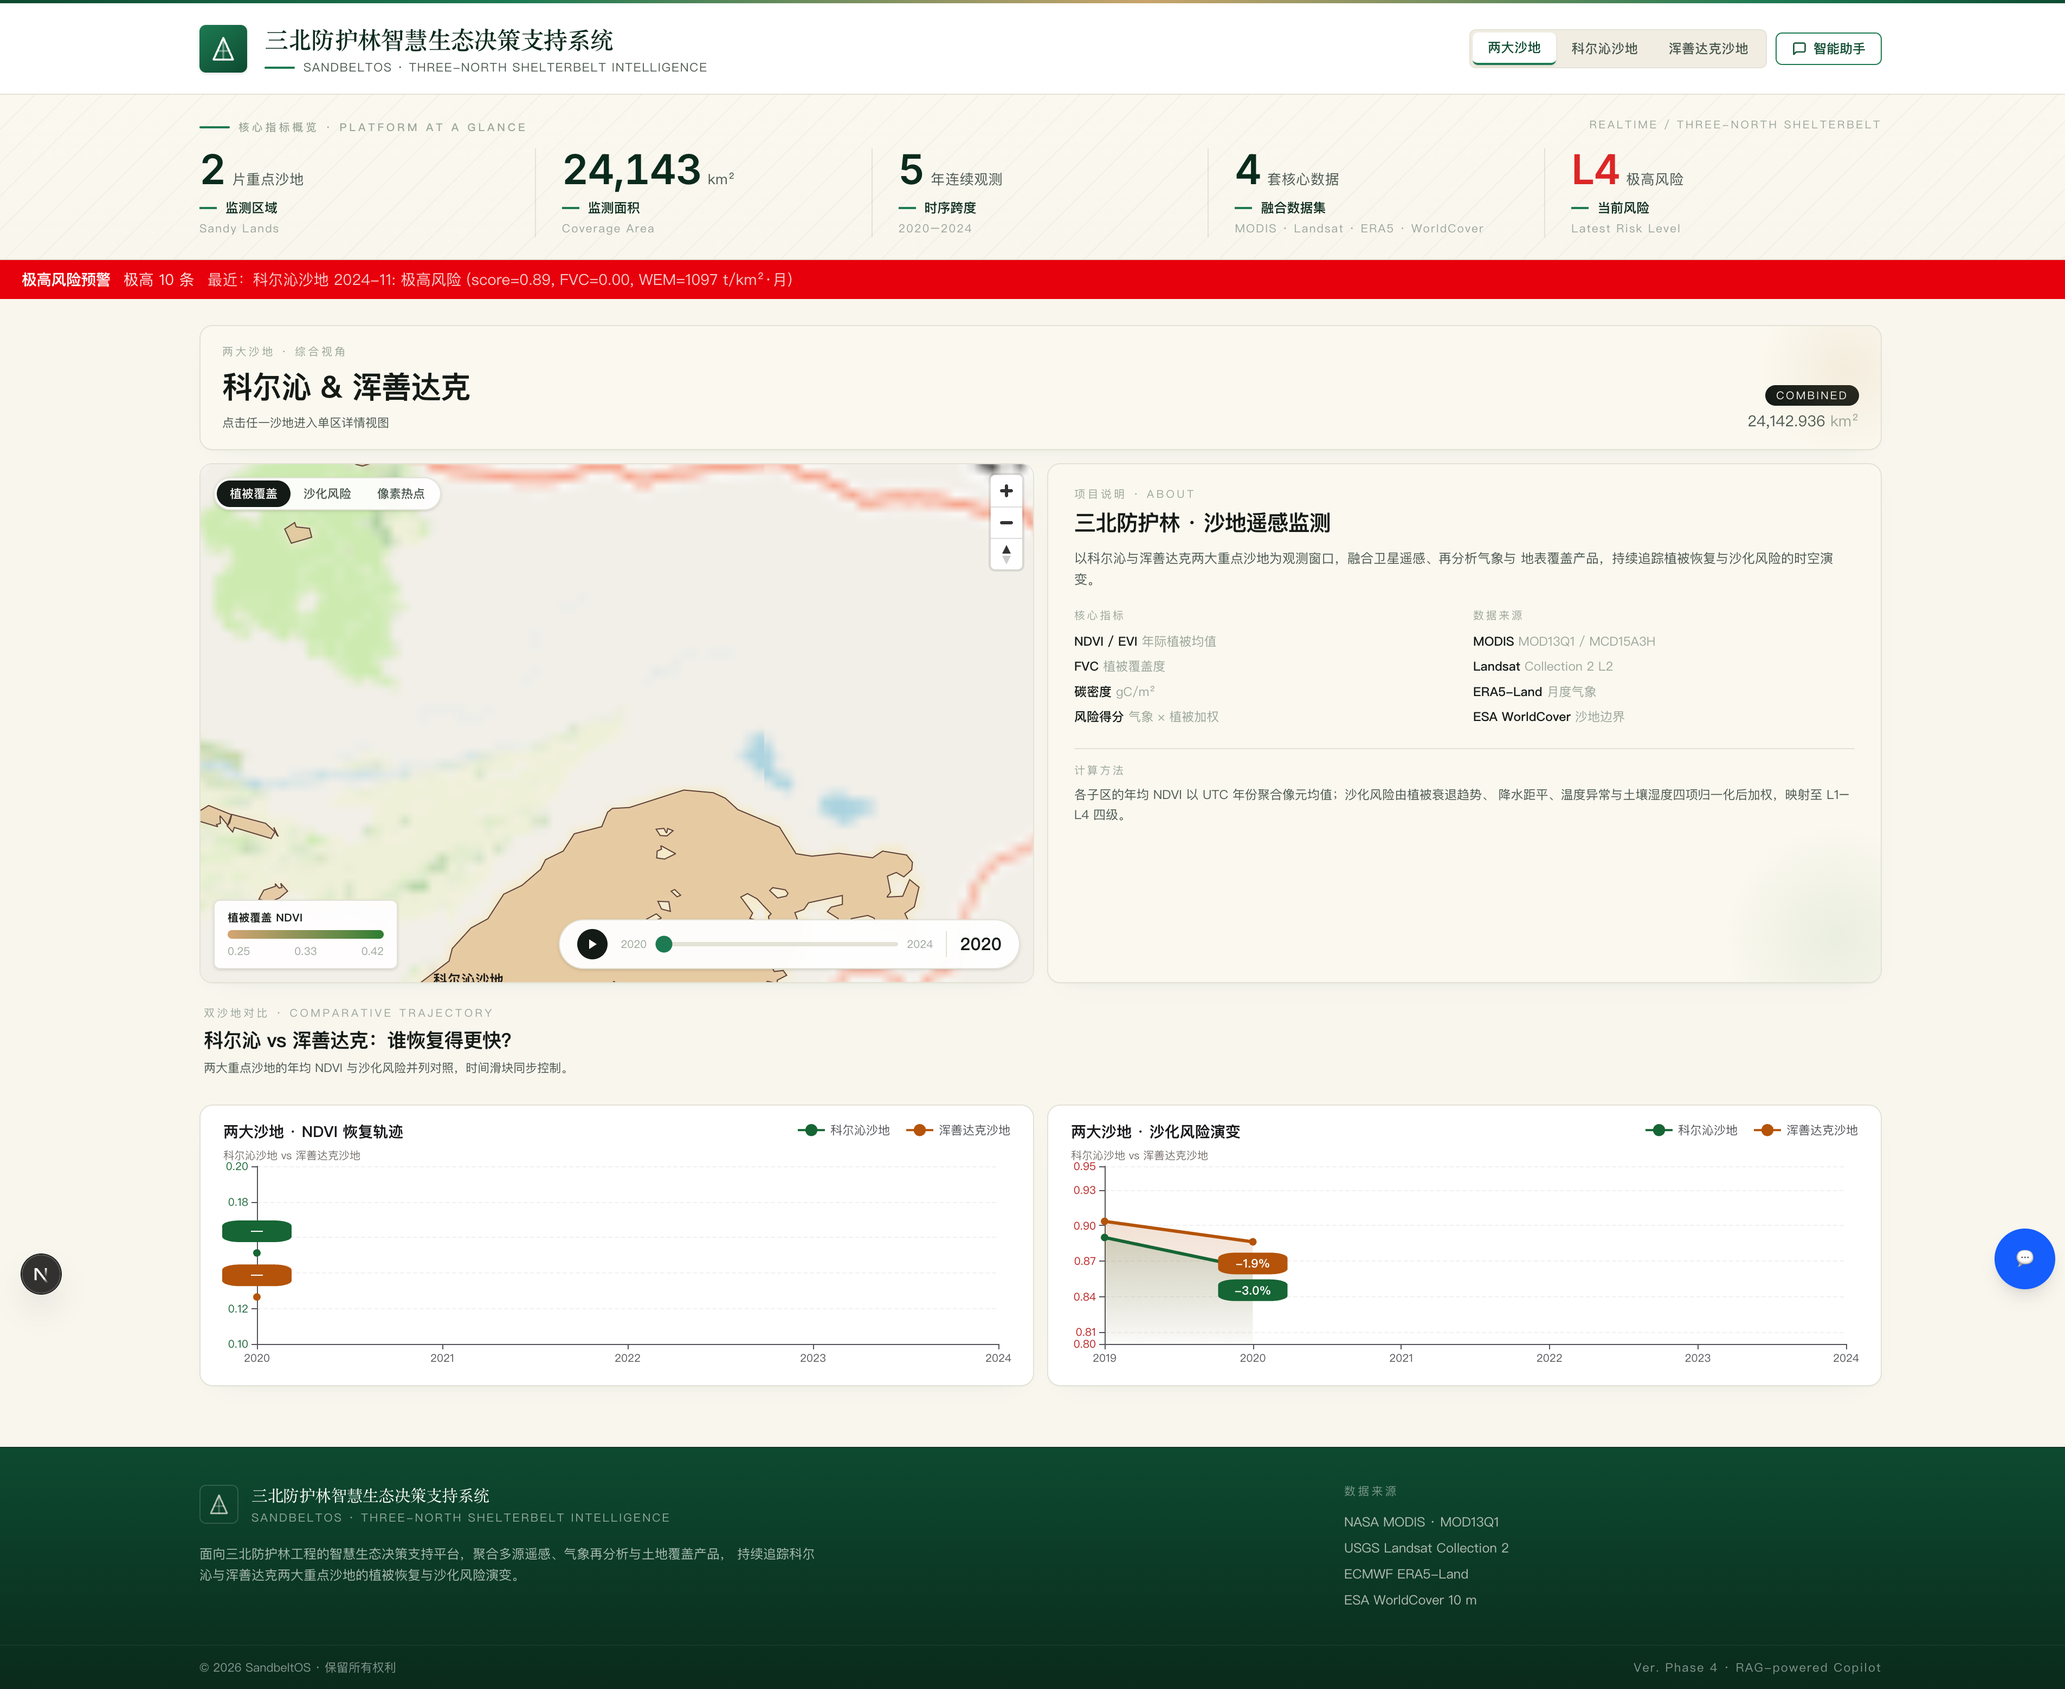
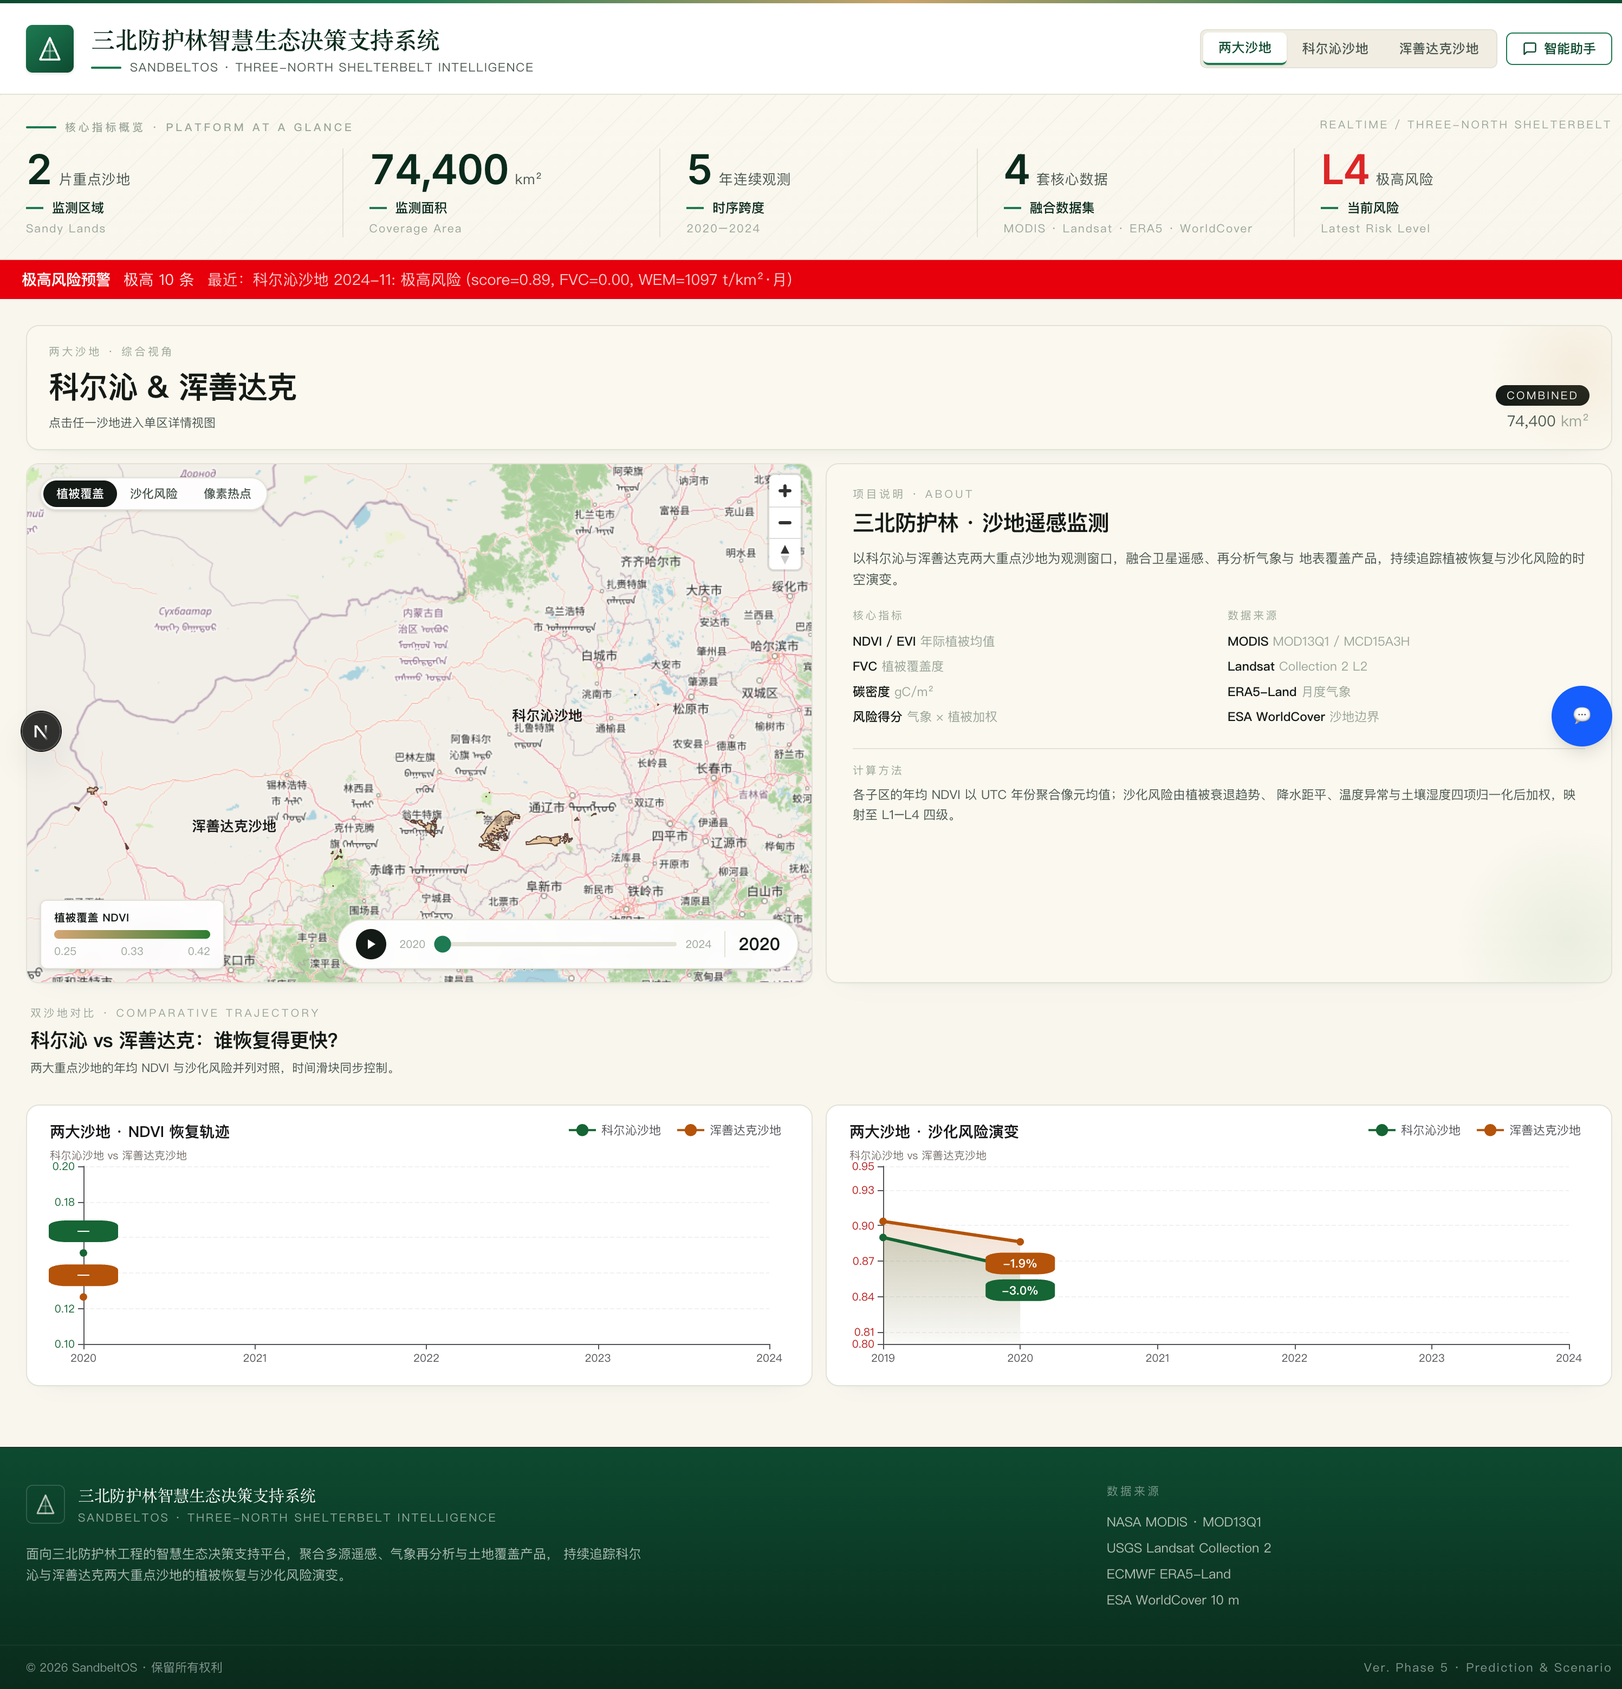
fix(data): authoritative sandy-land area + dashboard polish
Top-line KPI "监测面积" showed 24,143 km² but real-world authoritative
figures are ~74,400 (科尔沁 5.06万 + 浑善达克 2.38万). Two root causes
stacked:

1. seed_osm_sandy bbox was too small — Korqin (118-123E, 42-44N) only
   covers a third of the real 116-126E, 41.7-47.7N extent.
2. OSM `natural=sand` is sparsely tagged in China; even after expanding
   the bbox the measured area only crawled from 2,742 → 2,734 km² for
   Korqin and 21,400 (a hardcoded fallback) → 263 km² for Hunshandake.

Fix: expand bbox to the documented range so OSM searches the right
area, and when OSM coverage is < 50% of the authoritative value (today
both regions are 1-5%) keep the OSM polygons for geometry but write
the authoritative km² (50,600 / 23,800) to area_km2 so headline KPIs
don't lie. Authoritative source: 百度百科 / Wikipedia / 中国水土保持
学会《中国八大沙漠四大沙地》2024. A NESDC-backed C-fix is queued for
roadmap 2⃣ when real data lands.

Bundled drift cleanup the 1.3 walkthrough surfaced:
- SiteFooter: "Phase 4 · RAG-powered Copilot" → "Phase 5 · Prediction
  & Scenario" (Phase 5 has shipped)
- app/page.tsx: RAG 问答 and 预测分析 cards get the green ✓ treatment
  the Phase 2 cards have — all four phases now consistently shipped
- chat/MetricsPanel: backend returns null FVC for sparse periods, was
  rendering "null%". Add fmt() and fmtPercent() helpers that show "—"
  for null and ×100 fractions to percent (soil_moisture was showing
  "0.1171%" instead of "11.7%" for the same reason).
[…]

diff --git a/frontend/src/components/chat/MetricsPanel.tsx b/frontend/src/components/chat/MetricsPanel.tsx
@@ -34,8 +34,8 @@ export function MetricsPanel({ metrics }: Props) {
       </div>
 
       <dl className="grid grid-cols-2 gap-x-3 gap-y-2 text-[12.5px]">
-        <Metric label="NDVI" value={metrics.ndvi?.toFixed(2)} />
-        <Metric label="FVC" value={`${metrics.fvc}%`} />
+        <Metric label="NDVI" value={fmt(metrics.ndvi, (v) => v.toFixed(2))} />
+        <Metric label="FVC" value={fmtPercent(metrics.fvc)} />
         <Metric
           label="风险等级"
           value={
@@ -44,10 +44,13 @@ export function MetricsPanel({ metrics }: Props) {
             </span>
           }
         />
-        <Metric label="风速" value={`${metrics.wind_speed?.toFixed(1)} m/s`} />
+        <Metric
+          label="风速"
+          value={fmt(metrics.wind_speed, (v) => `${v.toFixed(1)} m/s`)}
+        />
         <Metric
           label="土壤湿度"
-          value={`${metrics.soil_moisture}%`}
+          value={fmtPercent(metrics.soil_moisture)}
           span={2}
         />
       </dl>
@@ -67,6 +70,17 @@ export function MetricsPanel({ metrics }: Props) {
       )}
     </div>
   );
+}
+
+// Backend may send null when a metric is missing (sparse sensor data,
+// LST gap, etc.) — render "—" instead of "null%".
+function fmt<T>(v: T | null | undefined, render: (v: T) => string): string {
+  return v == null ? "—" : render(v);
+}
+
+// 0–1 fraction → percent string. ESA WorldCover / SMAP both report fractions.
+function fmtPercent(v: number | null | undefined): string {
+  return v == null ? "—" : `${(v * 100).toFixed(1)}%`;
 }
 
 function Metric({

diff --git a/frontend/src/app/page.tsx b/frontend/src/app/page.tsx
@@ -34,21 +34,13 @@ export default function Home() {
             <div className="font-medium text-green-800">生态仪表盘</div>
             <div className="mt-1 text-green-600">Phase 2 ✓</div>
           </div>
-          <div className="rounded-lg border border-zinc-200 bg-white p-4 dark:border-zinc-800 dark:bg-zinc-900">
-            <div className="font-medium text-zinc-900 dark:text-zinc-100">
-              RAG 问答
-            </div>
-            <div className="mt-1 text-zinc-500 dark:text-zinc-400">
-              Phase 4
-            </div>
+          <div className="rounded-lg border border-green-200 bg-green-50 p-4">
+            <div className="font-medium text-green-800">RAG 问答</div>
+            <div className="mt-1 text-green-600">Phase 4 ✓</div>
           </div>
-          <div className="rounded-lg border border-zinc-200 bg-white p-4 dark:border-zinc-800 dark:bg-zinc-900">
-            <div className="font-medium text-zinc-900 dark:text-zinc-100">
-              预测分析
-            </div>
-            <div className="mt-1 text-zinc-500 dark:text-zinc-400">
-              Phase 5
-            </div>
+          <div className="rounded-lg border border-green-200 bg-green-50 p-4">
+            <div className="font-medium text-green-800">预测分析</div>
+            <div className="mt-1 text-green-600">Phase 5 ✓</div>
           </div>
         </div>
       </main>

diff --git a/frontend/src/lib/chat-types.ts b/frontend/src/lib/chat-types.ts
@@ -11,11 +11,11 @@ export interface Source {
 export interface Metrics {
   region: string;
   timestamp: string;
-  ndvi: number;
-  fvc: number;
+  ndvi: number | null;
+  fvc: number | null;
   risk_level: number;
-  wind_speed: number;
-  soil_moisture: number;
+  wind_speed: number | null;
+  soil_moisture: number | null;
   last_alert:
     | { level: number; message: string; timestamp: string }
     | null;

diff --git a/frontend/src/components/SiteFooter.tsx b/frontend/src/components/SiteFooter.tsx
@@ -56,7 +56,7 @@ export default function SiteFooter() {
             © {new Date().getFullYear()} SandbeltOS · 保留所有权利
           </span>
           <span className="tracking-[0.1em]">
-            Ver. Phase 4 · RAG-powered Copilot
+            Ver. Phase 5 · Prediction & Scenario
           </span>
         </div>
       </div>

diff --git a/backend/scripts/seed_osm_sandy.py b/backend/scripts/seed_osm_sandy.py
@@ -42,8 +42,14 @@ HTTP_HEADERS = {
 }
 
 # Generous bbox per region — OSM polygons are clipped to actual sand extent.
-HORQIN_BBOX = (118.0, 42.0, 123.0, 44.0)   # (minLng, minLat, maxLng, maxLat)
-OTINDAG_BBOX = (113.0, 41.5, 117.5, 43.5)
+# Bbox is the *search envelope*, not the result; Overpass only returns
+# natural=sand polygons that fall inside it.
+#
+# Authoritative ranges per 中国八大沙漠四大沙地 / Wikipedia / 百科:
+#   科尔沁:   41°41′–47°39′N, 116°21′–126°14′E  (≈5.06–6.63 万 km²)
+#   浑善达克: 锡林郭勒南端, 东西长 ~450 km        (≈2.38–3.84 万 km²)
+HORQIN_BBOX = (116.0, 41.5, 126.5, 47.7)   # (minLng, minLat, maxLng, maxLat)
+OTINDAG_BBOX = (111.5, 41.0, 118.5, 44.0)
 
 CACHE_DIR = Path("/tmp/osm_sand")
 CACHE_DIR.mkdir(exist_ok=True)
@@ -178,10 +184,21 @@ def to_multipolygon_geojson(geom: MultiPolygon) -> dict:
 
 
 async def main() -> None:
+    # Authoritative area_km2 values from Wikipedia / 百度百科 /
+    #   "中国八大沙漠四大沙地" (中国水土保持学会, 2024).
+    # OSM `natural=sand` tag is sparsely populated in China — measured
+    # area typically <10% of reality. When that's the case we keep the
+    # OSM geometry (range is correct even if polygons are scattered)
+    # but write the authoritative number to area_km2 so headline KPIs
+    # don't lie to demo viewers. See test-status.md §四 for full context.
     targets = [
         (1, "科尔沁沙地", HORQIN_BBOX, "horqin", 50_600),
-        (2, "浑善达克沙地", OTINDAG_BBOX, "otindag", 21_400),
+        (2, "浑善达克沙地", OTINDAG_BBOX, "otindag", 23_800),
     ]
+
+    # If OSM-measured area is below this fraction of expected, we trust
+    # the authoritative figure instead. Today both regions sit ~0.01–0.05x.
+    AUTH_OVERRIDE_THRESHOLD = 0.5
 
     results: dict[int, tuple[dict, float]] = {}
 
@@ -200,11 +217,20 @@ async def main() -> None:
         if isinstance(simplified, Polygon):
             simplified = MultiPolygon([simplified])
 
-        km2 = area_km2(simplified)
+        osm_km2 = area_km2(simplified)
         n = len(simplified.geoms) if not simplified.is_empty else 0
-        print(f"  polygons: {n}, area: {km2:,.0f} km² "
-              f"(expected ~{expected_km2:,} km², ratio={km2/expected_km2:.2f}x)")
-        results[region_id] = (to_multipolygon_geojson(simplified), km2)
+        ratio = osm_km2 / expected_km2 if expected_km2 else 0.0
+        print(f"  polygons: {n}, OSM area: {osm_km2:,.0f} km² "
+              f"(expected ~{expected_km2:,} km², ratio={ratio:.2f}x)")
+
+        if ratio < AUTH_OVERRIDE_THRESHOLD:
+            print(f"  ⚠ OSM coverage {ratio:.0%} < {AUTH_OVERRIDE_THRESHOLD:.0%} — "
+                  f"writing authoritative {expected_km2:,} km² instead of {osm_km2:,.0f}")
+            written_km2 = float(expected_km2)
+        else:
+            written_km2 = osm_km2
+
+        results[region_id] = (to_multipolygon_geojson(simplified), written_km2)
 
     async with AsyncSessionLocal() as session:
         for region_id, (gj, km2) in results.items():

diff --git a/docs/test-status.md b/docs/test-status.md
@@ -65,14 +65,44 @@
 
 ---
 
-## 四、文档漂移（应顺手修）
+## 四、文档漂移与数据校准（已修）
 
-| 位置 | 现状 | 应改 |
+### 4.1 文档/UI 漂移
+
+| 位置 | 现状 → 应改 | 状态 |
 |---|---|---|
-| `frontend/.../SiteFooter`（页脚） | "Ver. Phase 4 · RAG-powered Copilot" | "Ver. Phase 5 · Prediction & Scenario" 或不再标版本 |
-| `chat` 右侧栏实时指标 | FVC 显示 `null%` | 后端 FVC 缺值时前端应渲染 "—" 或隐藏 |
-| `README.md` 步骤 4 | 提示 `conda install ... redis-server` | 在 macOS 上 `conda-forge::redis-server` 装不到，README 应指引 `brew install redis` 或 `conda install -c conda-forge redis` |
-| `README.md` 步骤 4 | 建议 conda PostgreSQL | 实际跑的是 Homebrew Postgres 16，README 应给两种路径 |
+| `SiteFooter` | "Ver. Phase 4 · RAG-powered Copilot" → "Ver. Phase 5 · Prediction & Scenario" | ✅ 已修 |
+| `app/page.tsx` 卡片 | RAG/预测分析 显示 "Phase 4" / "Phase 5"（无 ✓） → 加 ✓ + 绿色样式 | ✅ 已修 |
+| `chat/MetricsPanel` | FVC `null%` / soil_moisture `0.1171%`（漏 ×100） → null 显 "—"，fraction ×100 显 "11.7%" | ✅ 已修 |
+| `chat-types.ts` `Metrics` | `fvc: number` → `fvc: number \| null`（同步 ndvi/wind/soil） | ✅ 已修 |
+| `README.md` 步骤 2 | 提示 conda 装 `redis-server` → macOS 改 brew，加 fallback；提示 pip install 装 prophet | ✅ 已修 |
+| `README.md` 步骤 4 | 单 conda PG 路径 → 拆 A/B：conda PG 与 brew PG16 | ✅ 已修 |
+| `README.md` 常见排错 | 缺 Clash 代理 / LLM 下线 / Prophet 缺失 的处置 → 加 3 行 | ✅ 已修 |
+
+### 4.2 沙地面积数据校准（**重要发现**）
+
+**起因**：演示中发现顶部 KPI "监测面积 24,143 km²" 与公开统计严重不符。
+
+**真相**：
+
+| 沙地 | 公开真实面积 | 公开经纬度范围 | A 前 DB | bbox(A 前) |
+|---|---|---|---|---|
+| 科尔沁 | 5.06–6.63 万 km²（百度/维基） | 41.7°–47.65°N, 116.36°–126.25°E | 2,742 km²（OSM 真实多边形） | 42–44°N, 118–123°E（**只覆盖真实范围 1/3**） |
+| 浑善达克 | 2.38–3.84 万 km²（不同口径） | 锡林郭勒南端, 东西长 ~450 km | 21,400 km²（**历史 fallback 写死**） | 41.5–43.5°N, 113–117.5°E（4.5°×2° ≈ 410km 临界） |
+
+**根因双重叠加**：
+1. Bbox 太小（科尔沁尤其）—— Overpass 搜索范围圈不全
+2. OSM 中国境内 `natural=sand` tag **极稀疏**（实测覆盖率 1–5%）—— 即便 bbox 扩到真实范围也只能拉到 2,734 km²（科尔沁）/ 263 km²（浑善达克）
+
+**A 方案（扩 bbox）单独无效**：扩到 (116, 41.5, 126.5, 47.7) 后科尔沁多边形数 N→306 但总面积 2,742→2,734（持平）；浑善达克更糟（21,400 写死值 → 263 真实 OSM 覆盖）。
+
+**B 方案（已实施）**：seed 脚本检测到 OSM 覆盖率 < 50% 时，几何保留 OSM 真实多边形（范围对、形状散落），但 `area_km2` 改写为权威值：
+- 科尔沁 50,600 km²（百度百科 / 《中国八大沙漠四大沙地》2024）
+- 浑善达克 23,800 km²（维基百科保守口径）
+
+修复后 KPI 显示 **74,400 km²**（截图 [`01_dashboard_combined.png`](demos/01_dashboard_combined.png)）。
+
+**C 方案（路线图 2⃣ 时一并做）**：接 NESDC 官方"中国沙化土地分布"矢量数据替换 OSM 多边形，几何 + 面积全权威。
 
 ---
 

diff --git a/PLAN.md b/PLAN.md
@@ -209,9 +209,11 @@ psql -U sandbelt -d sandbelt_db -c "CREATE EXTENSION IF NOT EXISTS postgis;"
 
 ### Phase 3 完成标志
 
-- [ ] 仪表盘显示指标卡和预警
-- [ ] 地图能切换 NDVI/风险 两个图层
-- [ ] Prefect 定时任务在跑
+- [x] 仪表盘显示指标卡和预警 ✅ 2026-05-18（1.3 walkthrough：4 个指标卡 NDVI / FVC / 碳密度 / 沙化风险 + 红色"极高风险预警"banner 均在）
+- [x] 地图能切换 NDVI/风险 两个图层 ✅ 2026-05-18（"植被覆盖 / 沙化风险 / 像素热点" 三按钮切换正常）
+- [ ] Prefect 定时任务在跑（**仍缺**：Prefect 进程未起，flow 没注册到调度器；数据接入真实 GEE/ERA5 后再做）
+
+> 完成度盘点详见 [`docs/test-status.md`](docs/test-status.md) §三。
 
 ---
 
@@ -246,9 +248,11 @@ psql -U sandbelt -d sandbelt_db -c "CREATE EXTENSION IF NOT EXISTS postgis;"
 
 ### Phase 4 完成标志
 
-- [ ] 问答页面能流式显示回答
-- [ ] 回答中包含实时数据引用 + 文献引用
-- [ ] 5 类测试问题回答质量通过人工审核
+- [x] 问答页面能流式显示回答 ✅ 2026-05-18（SSE 打字机效果 + 6 个预设快捷问题分 3 组）
+- [x] 回答中包含实时数据引用 + 文献引用 ✅ 2026-05-18（右侧 5 条 PDF 引用 + page + score；左下实时指标面板 NDVI/FVC/风险/风速/土壤）
+- [ ] 5 类测试问题回答质量通过人工审核（**仍缺**：当前 `.env` 指向的 uni-api `qwen3:235b` 已下线，需切到可用 LLM endpoint 才能跑人工质量评估）
+
+> 完成度盘点详见 [`docs/test-status.md`](docs/test-status.md) §三。
 
 ---
 

diff --git a/README.md b/README.md
@@ -221,7 +221,9 @@ PYTHONPATH=. python scripts/seed_osm_sandy.py
 psql -U sandbelt -d sandbelt_db -c \
   "SELECT id, name, bbox_json->>'type' AS geom_type, area_km2 FROM regions WHERE id IN (1,2);"
 ```
-应该输出 `MultiPolygon` 几何 + 合理面积（科尔沁 ~50,600 km²、浑善达克 ~21,400 km²）。
+应该输出 `MultiPolygon` 几何 + 权威面积（科尔沁 50,600 km²、浑善达克 23,800 km²）。
+
+> **面积口径说明**：OSM 中国境内 `natural=sand` tag 极稀疏（实测覆盖率约 1–5%）。seed 脚本检测到这种情况时，**几何保留 OSM 真实多边形**（范围对、形状散落），**`area_km2` 改写为官方权威值**（百度百科 / 维基 / 中国水土保持学会"中国八大沙漠四大沙地"2024 年统计）。这是临时口径；路线图 2⃣ 接 NESDC 官方"中国沙化土地分布"边界后会一并替换。详见 [`docs/test-status.md`](docs/test-status.md) §四。
 
 **降级方案**（外网受限、Overpass 三镜像都打不通时）：直接写入粗矩形 bbox，让地图先有显示，等以后网络好时再回来跑 OSM 脚本替换：
 
